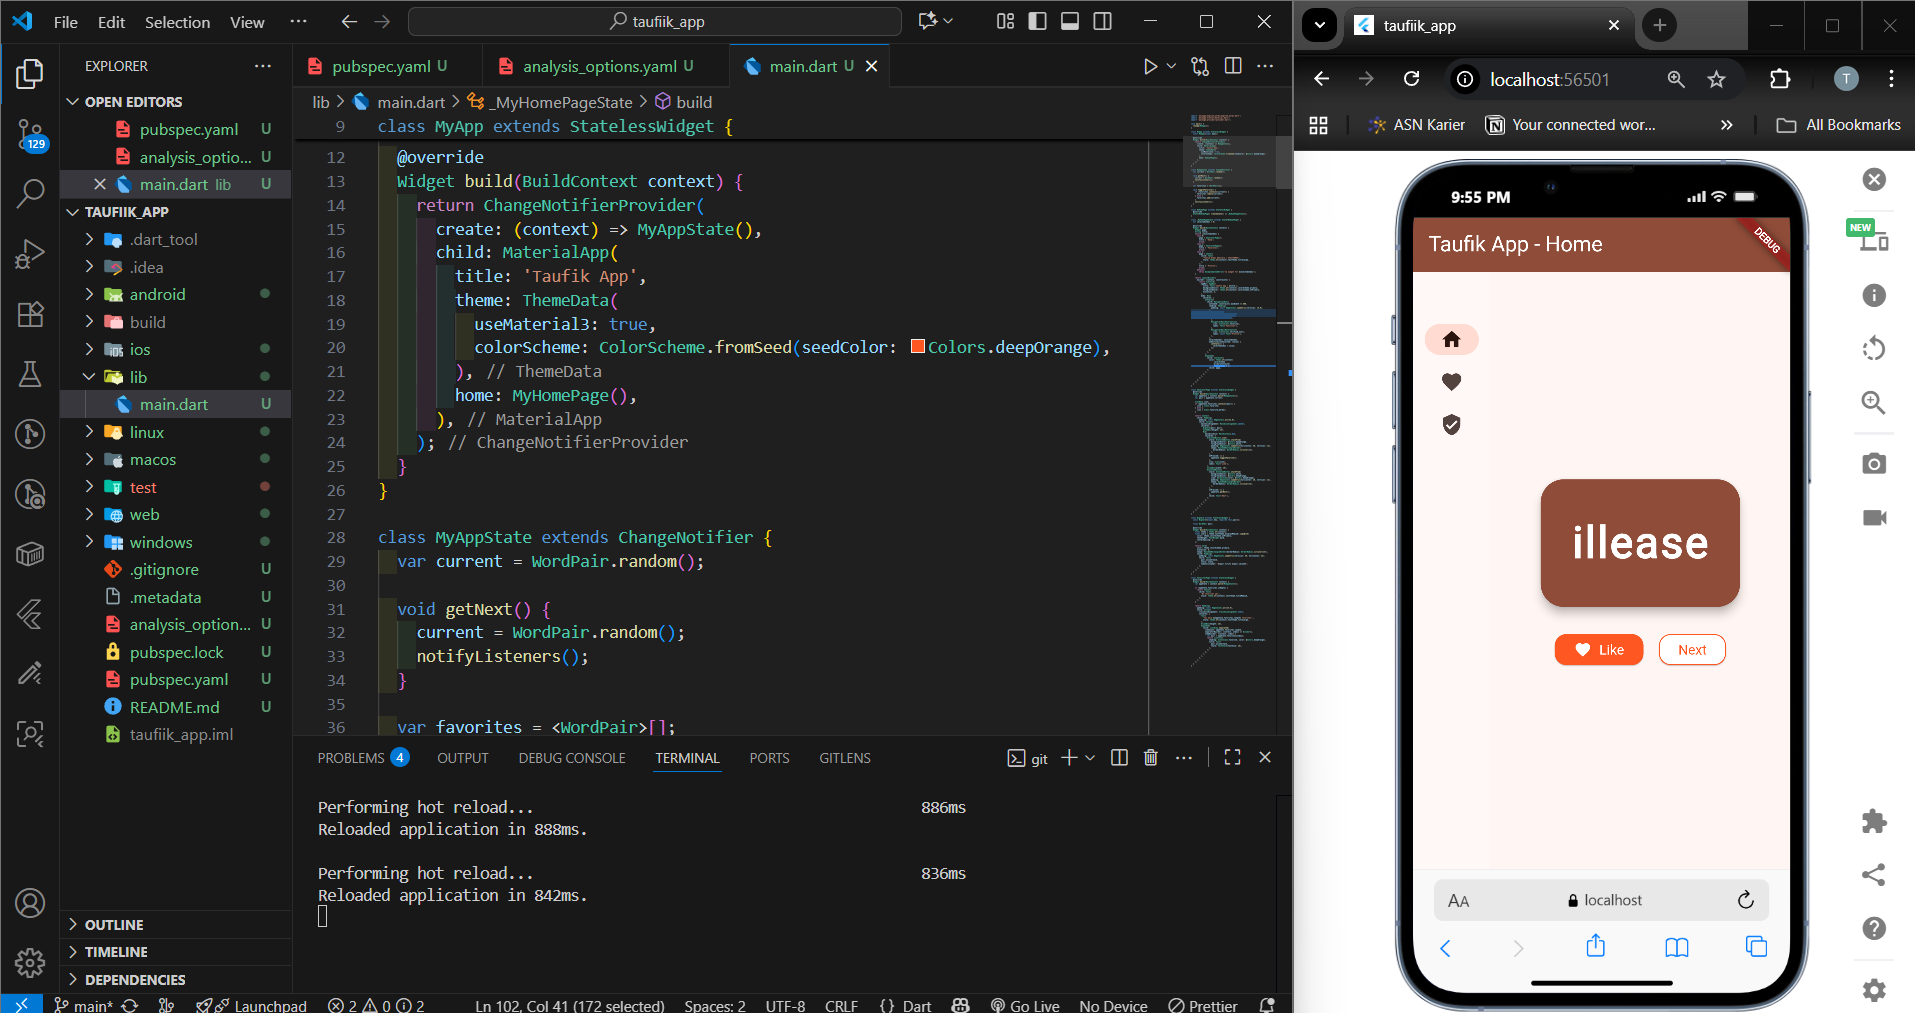
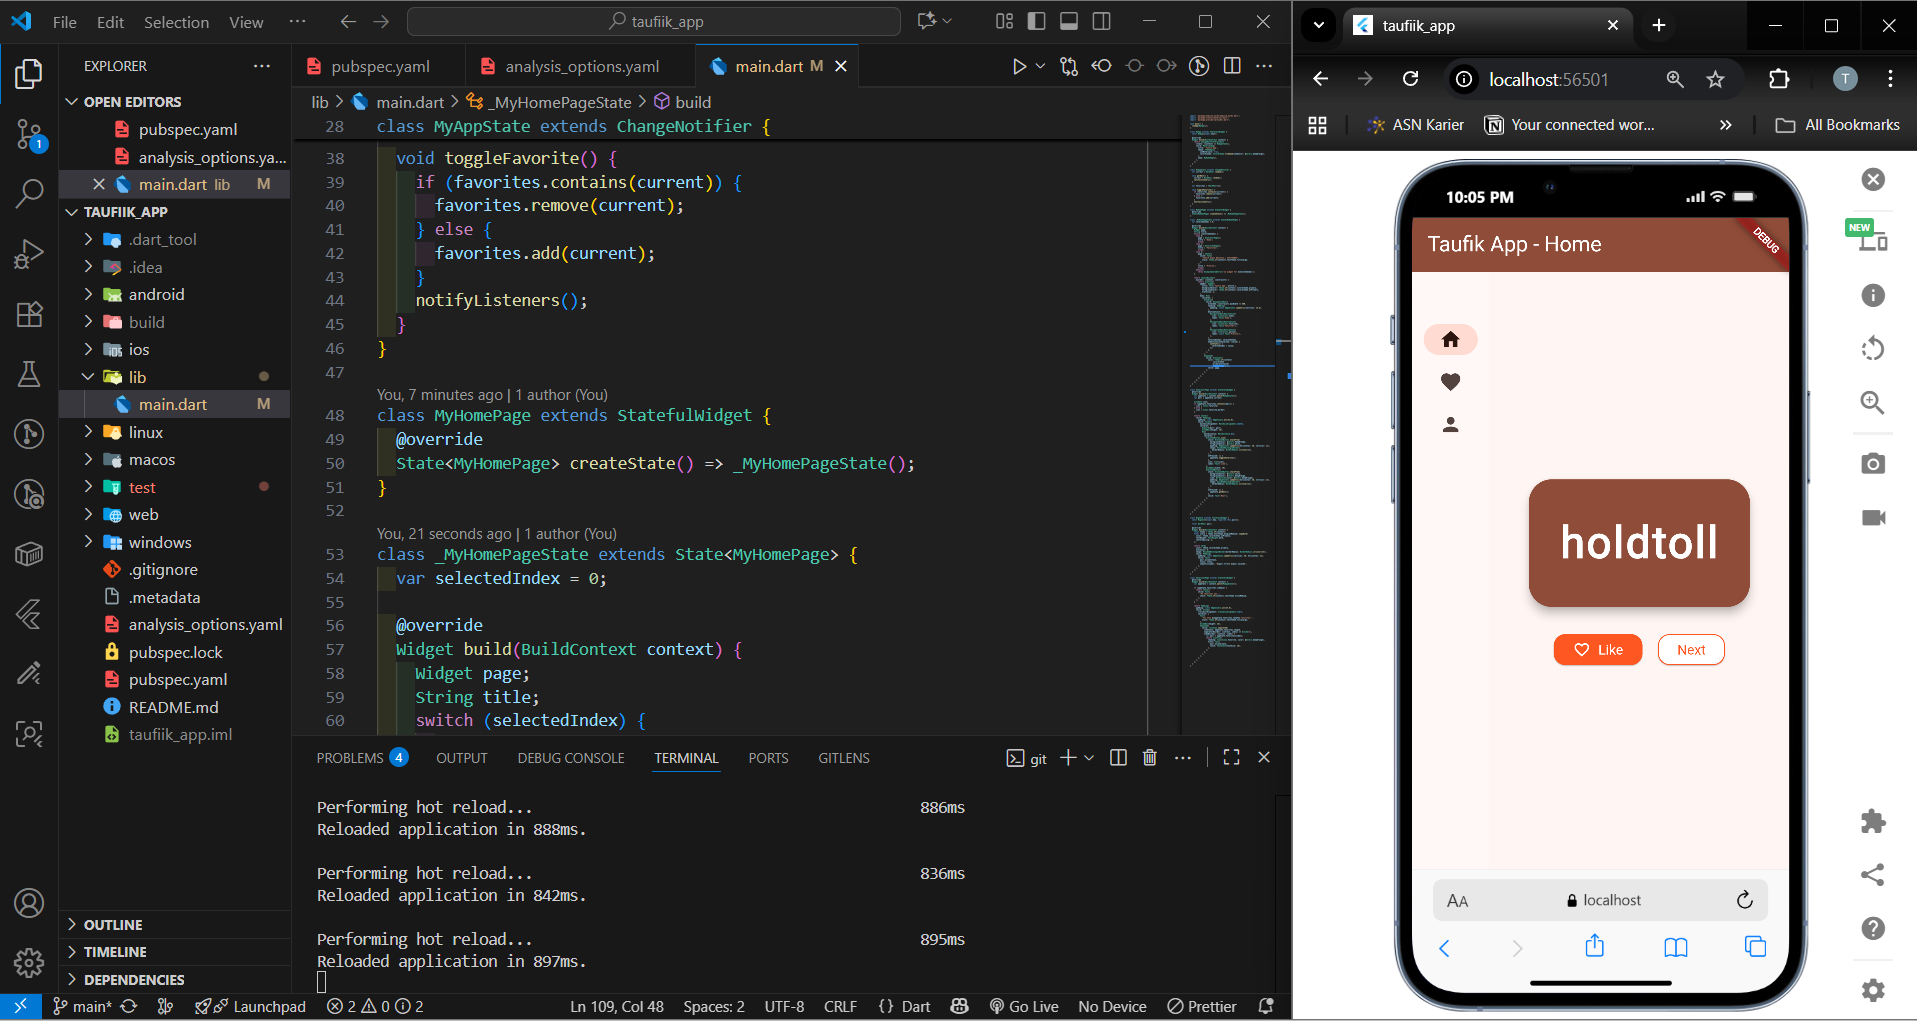
fix: Tugas Praktikum - Your first Flutter app

diff --git a/Week-05/src/taufiik_app/lib/main.dart b/Week-05/src/taufiik_app/lib/main.dart
@@ -106,7 +106,7 @@ class _MyHomePageState extends State<MyHomePage> {
                       label: Text('Favorites'),
                     ),
                     NavigationRailDestination(
-                      icon: Icon(Icons.verified_user),
+                      icon: Icon(Icons.person),
                       label: const Text('Profile'),
                     ),
                   ],
